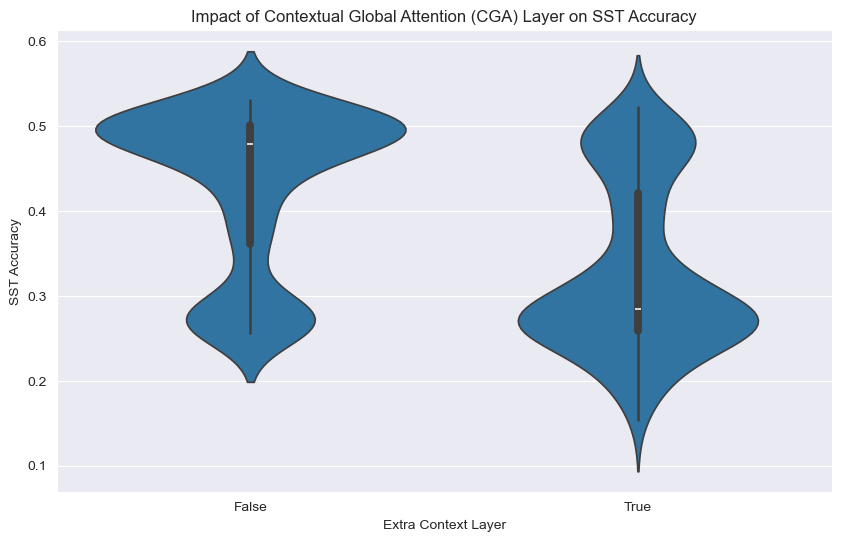
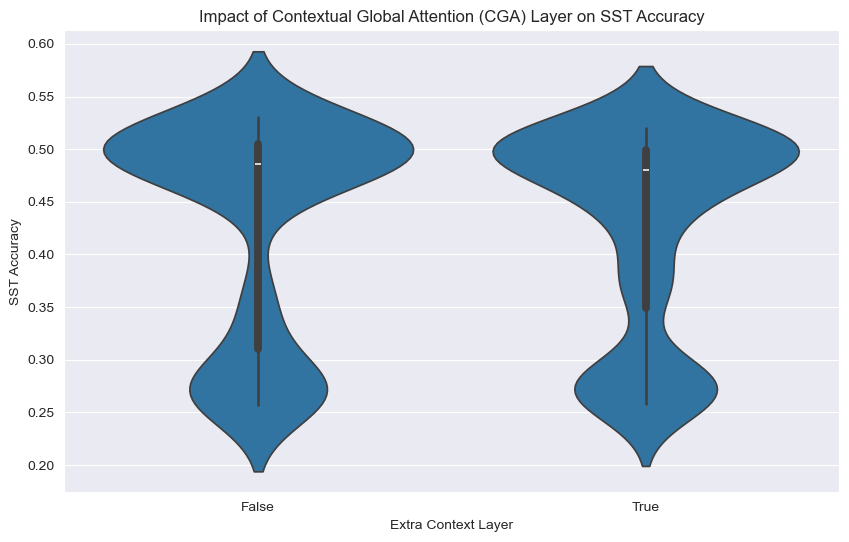
47: Update SST results

diff --git a/README.md b/README.md
@@ -321,26 +321,26 @@ the same order of magnitude.
 
 The Global Context Layer showed the following impact on SST accuracy:
 
-| CGA Layer | SST Accuracy |
-|-----------|--------------|
-| False     | 0.530        |
-| True      | 0.523        |
-| Baseline  | 0.522        |
+| CGA Layer w/ optimized Hyperparameters | SST Accuracy |
+|----------------------------------------|--------------|
+| False                                  | 0.530        |
+| True                                   | 0.520        |
+| Baseline                               | 0.522        |
 
 
 The higher accuracy of the model without a CGA layer with respect to the baseline lies in the alternate hyperparameter
-selection optimized through the grid search.
+selection optimized through the grid search. Similarly the higher accuracy with CGA-based Attention-pooling can be attributed
+to optimal hyperparameters, rather than the pooling mechanism itself.
 
 | **Stanford Sentiment Treebank (SST)**   | **Dev accuracy** |
 |-----------------------------------------|------------------|
 | Baseline                                | 0.522            | 
-| Contextual Global Attention (CGA)       | 0.523            |
-| CGA-based Attention-pooling             | 0.522            |
+| Contextual Global Attention (CGA)       | 0.520            |
+| CGA-based Attention-pooling             | 0.530            |
 | Using Grid Search Best Results (no CGA) | 0.530            |
 
-The generated [violin plot](sst_grid_search_experiments/analyses_visualizations/impact_cga_sst_accuracy.png) shows that the model without the CGA Layer generally outperformed the one with it, with most
-results being concentrated on the ~0.500 mark vs. ~0.300 for the models with the extra CGA layer. However, under certain hyperparameter
-selection, accuracy in the same orders of magnitude can be reached.
+The generated [violin plot](sst_grid_search_experiments/analyses_visualizations/impact_cga_sst_accuracy.png) shows that the model without the CGA Layer slightly outperformed the one with it, with most
+results being concentrated on the ~0.500 mark for both types of models. 
 
 #### **4.1.4 Effect of CGA Layers and Attention Pooling on SST Performance**
 
@@ -360,15 +360,15 @@ Additionally, the best SST performance under different conditions was as follows
 #### **4.1.4 Effectiveness of Pooling Strategies**
 
 
-Pooling strategies were evaluated, with the best SST accuracy results being achieved with the standard CLS-token-based 
-pooling strategy:
+Pooling strategies were evaluated. All pooling strategies show equal performance, showcasing no effect on accuracy based on it. 
+It is still better than the baseline of 0.522, but this can be attributed to optimal hyperparameter selection as well:
 
 | Pooling Strategy | SST Accuracy (Mean) | SST Accuracy (Max) |
 |------------------|---------------------|--------------------|
-| CLS (default)    | 0.429               | 0.530              |
-| Attention        | 0.427               | 0.522              |
-| Average          | 0.424               | 0.512              |
-| Max              | 0.421               | 0.510              |
+| CLS (default)    | 0.428               | 0.530              |
+| Attention        | 0.428               | 0.530              |
+| Average          | 0.428               | 0.530              |
+| Max              | 0.428               | 0.530              |
 
 For an illustrative comparison, refer to the corresponding [box plot](sst_grid_search_experiments/analyses_visualizations/sst_accuracy_by_pooling_strategy.png).
 
